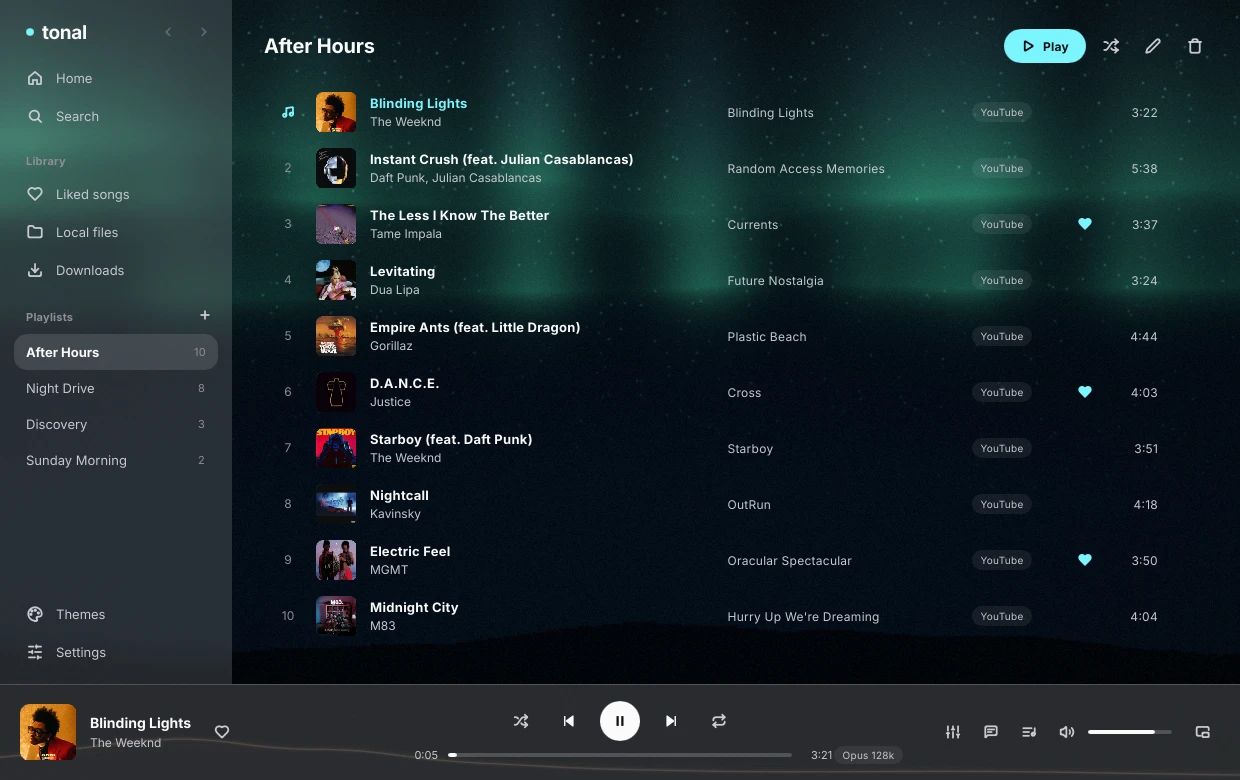
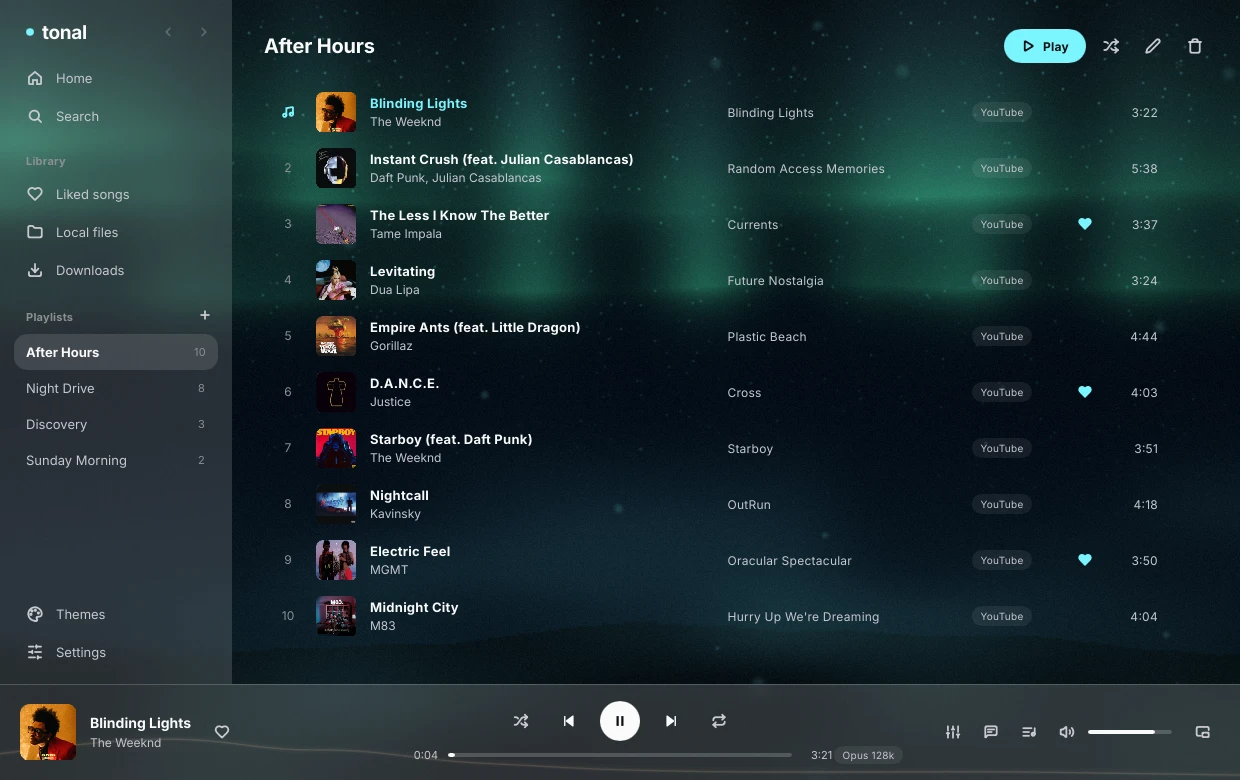
docs(readme): screenshots and live theme benchmark with scene depth
- retake screenshots with the new depth layers

- re-measure Tonal with a live theme and redraw the charts

diff --git a/README.md b/README.md
@@ -124,7 +124,7 @@ Every player was measured the same way by [`bench/bench.py`](bench/bench.py): st
 | --- | --- | --- | --- | --- |
 | **Tonal (waves off)** | 118 MB | 0.5% | 0.1% | same as Tonal |
 | **Tonal** | 128 MB | 5.9% | 0.1% | YouTube, SoundCloud, Audius, local |
-| **Tonal (live theme)** | 134 MB | 20.1% | 12.0% | same as Tonal |
+| **Tonal (live theme)** | 131 MB | 21.8% | 13.4% | same as Tonal |
 | Strawberry | 133 MB | 1.8% | 0.6% | local files, Subsonic servers, internet radio; Tidal and Qobuz with a paid plan, Spotify with Premium |
 | Amberol | 182 MB | 0.8% | 0.9% | local files |
 | Tauon | 228 MB | 3.0% | 0.6% | local files, Plex, Jellyfin and Airsonic servers |
@@ -140,7 +140,7 @@ The last row is a joke. Nobody measured it, and nobody could find the download l
 - Strawberry, Amberol and Tauon play a local MP3. The others stream, which costs more.
 - "Plays" is checked against each project's own README, release notes and source, October 2026. Tauon removed Spotify in v10. Riff only imports Spotify playlists; it never plays Spotify audio.
 - Tonal's waves cost about 5.5% of one core, because the window is redrawn by the CPU 30 times a second. Turn them off in Settings and Tonal is the lightest player measured here.
-- "Live theme" is Northern lights (Aurora scene, Glass style, Pulse) at 15 fps. A moving scene costs about 12% of one core, more while it reacts to music. The default Classic look paints nothing.
+- "Live theme" is Northern lights (Aurora scene, Glass style, Pulse) at 15 fps. A moving scene costs about 13% of one core, more while it reacts to music. The default Classic look paints nothing.
 - [Spotifast](https://github.com/crmne/spotifast) states "100–250 MB of RAM" in its README, and playback needs Spotify Premium, so it isn't measured here.
 - "Before playing" is the 15 seconds right after the 30-second wait, with the app open and nothing playing.
 
